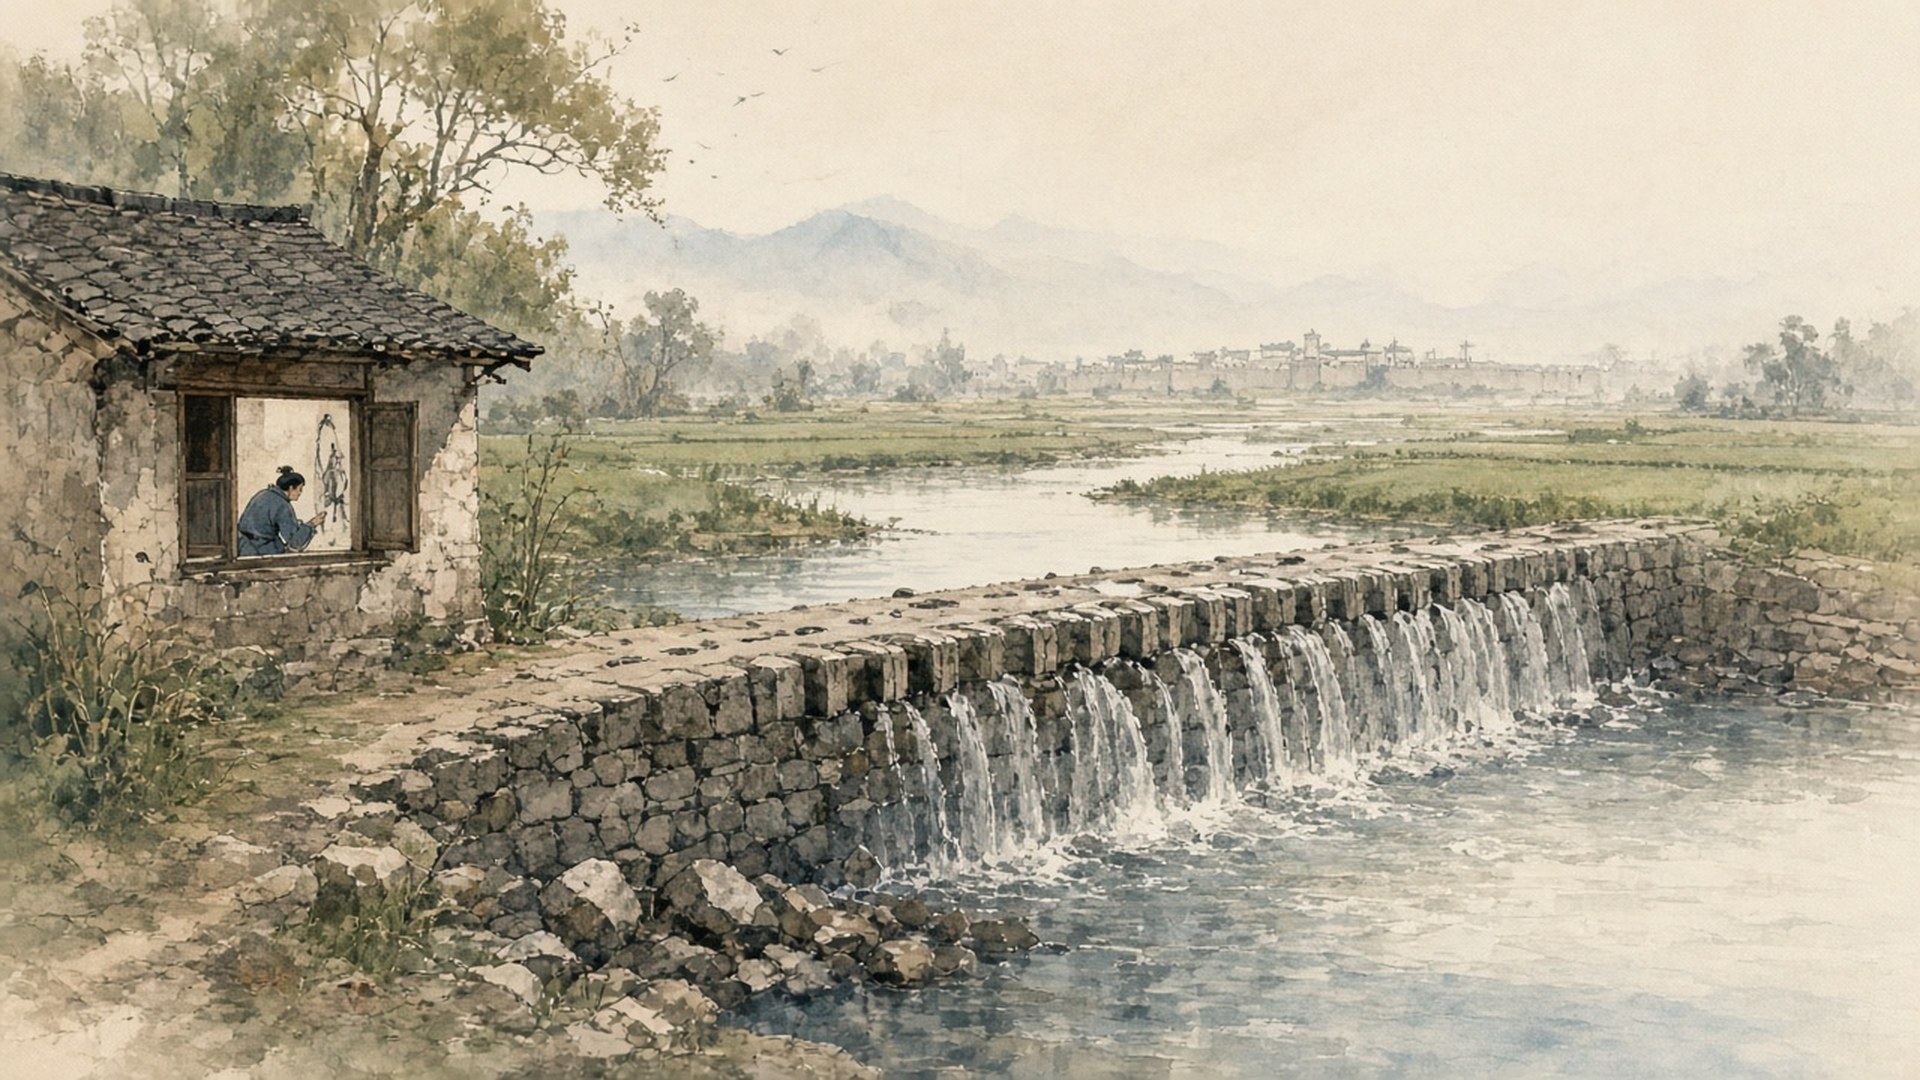
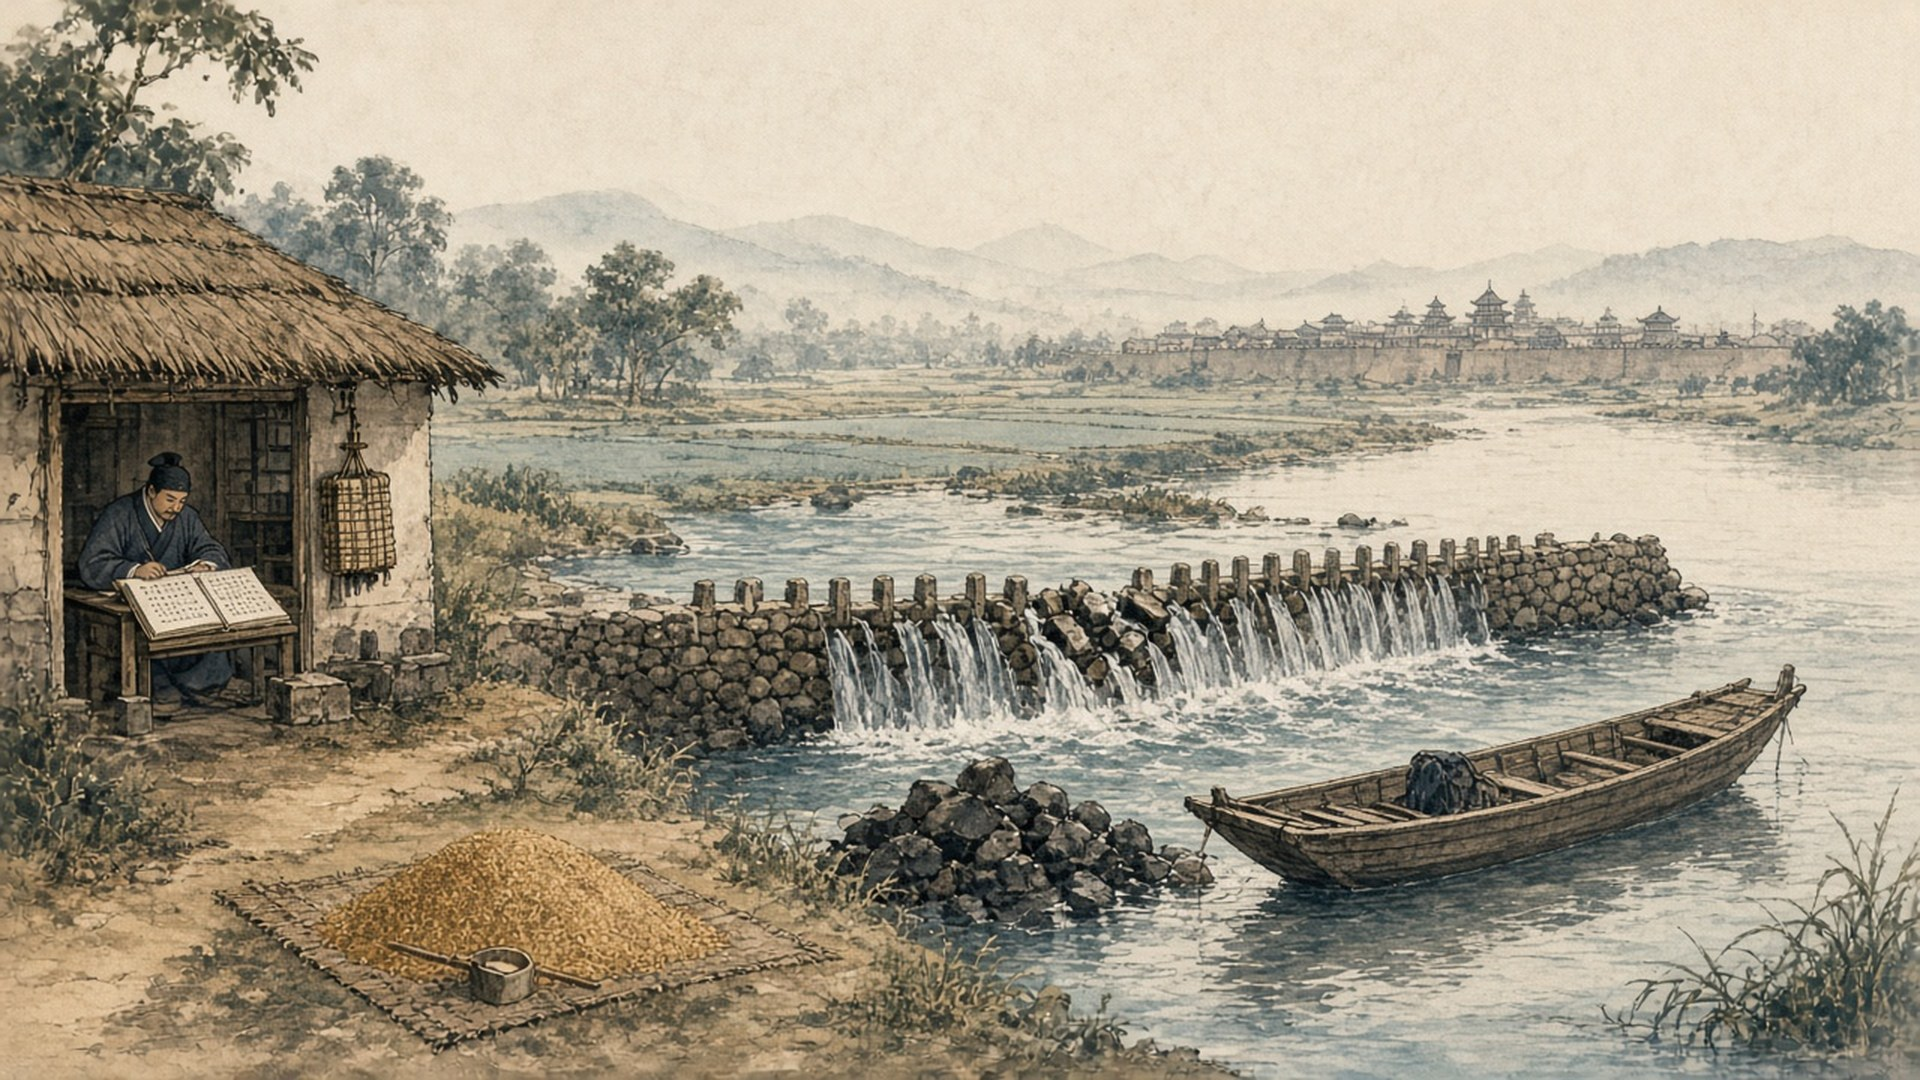
五处重绘底图换上，热区按新画面重对
木兰陂、南海神庙、广船坞、唐房街、蕃坊石巷换上补齐道具的纸墨底图，热区坐标按画面重对（工席已接线的写入 districts.json，其余只改场景文档热区表）。

diff --git a/docs/scenes/08-xh_mulan-木兰陂.md b/docs/scenes/08-xh_mulan-木兰陂.md
@@ -55,15 +55,15 @@ Mulan Weir, Xinghua, Southern Song, mid-morning. Rice paper, ink line. An old st
 
 | id | 画面上像什么 | 坐标 (x,y) | kind | 短讯形态 | 数据 |
 |---|---|---:|---|---|---|
-| `xh_mulan_share` | 陂司门口的份册。 | (0.08, 0.56) | place | 确认「入水利」。 | `invest`。 |
-| `xh_mulan_repair` | 堰中段松了的一排石。 | (0.52, 0.54) | place | 确认「补堰　150钱」。一次。 | `favour`，乡情、名声。 |
-| `xh_mulan_weir` | 堰脚另一处松石。 | (0.30, 0.80) | place | 确认「修陂石　120钱」。一次，flag `xh_mulan_weir`。 | `favour`。 |
-| `xh_mulan_grainbuy` | 陂上分出来的米堆。 | (0.40, 0.58) | goods | 无 flag：还没到那一步。有则确认「陂上分米」。 | `buy`，粮 8，0.9。 |
-| `xh_mulan_siege` | 靠堰的一条可放米的船板。 | (0.62, 0.72) | place | 非围城：城防的账还没开／战况不对。围城：确认「送米进城」。 | `favour`，扣舱米 8，加城防粮。 |
-| `npc_zhengyan_meet` | 小屋里的郑堰。 | (0.16, 0.42) | person | 确认「陂司书手」。一次。 | `favour`。 |
-| `npc_zhengyan_ledger` | 他案上的水租簿。 | (0.22, 0.50) | goods | 未见：还没到那一步。见过：确认「对水租簿」。 | `favour`。 |
-| `npc_zhengyan_invest` | 簿上派工的那一栏。 | (0.28, 0.54) | place | 未对簿：还没到那一步。对过：确认「认修陂工」。 | `invest`。 |
-| `npc_zhengyan_split` | 两份摊开的账。 | (0.24, 0.62) | goods | 未认工：还没到那一步。认过：两路「留作堰工」「按契分」。 | `choice`。 |
+| `xh_mulan_share` | 陂司门口的份册。 | (0.07, 0.54) | place | 确认「入水利」。 | `invest`。 |
+| `xh_mulan_repair` | 堰中段松了的一排石。 | (0.58, 0.48) | place | 确认「补堰　150钱」。一次。 | `favour`，乡情、名声。 |
+| `xh_mulan_weir` | 堰脚另一处松石。 | (0.50, 0.76) | place | 确认「修陂石　120钱」。一次，flag `xh_mulan_weir`。 | `favour`。 |
+| `xh_mulan_grainbuy` | 陂上分出来的米堆。 | (0.22, 0.86) | goods | 无 flag：还没到那一步。有则确认「陂上分米」。 | `buy`，粮 8，0.9。 |
+| `xh_mulan_siege` | 靠堰的一条可放米的船板。 | (0.70, 0.70) | place | 非围城：城防的账还没开／战况不对。围城：确认「送米进城」。 | `favour`，扣舱米 8，加城防粮。 |
+| `npc_zhengyan_meet` | 小屋里的郑堰。 | (0.10, 0.44) | person | 确认「陂司书手」。一次。 | `favour`。 |
+| `npc_zhengyan_ledger` | 他案上的水租簿。 | (0.14, 0.54) | goods | 未见：还没到那一步。见过：确认「对水租簿」。 | `favour`。 |
+| `npc_zhengyan_invest` | 簿上派工的那一栏。 | (0.16, 0.48) | place | 未对簿：还没到那一步。对过：确认「认修陂工」。 | `invest`。 |
+| `npc_zhengyan_split` | 两份摊开的账。 | (0.11, 0.60) | goods | 未认工：还没到那一步。认过：两路「留作堰工」「按契分」。 | `choice`。 |
 
 ## 4. 各热区细致交互
 

diff --git a/docs/scenes/14-gz_fanfang-蕃坊石巷.md b/docs/scenes/14-gz_fanfang-蕃坊石巷.md
@@ -58,14 +58,14 @@ A stone alley in Guangzhou’s foreign quarter, Southern Song, afternoon. Rice p
 
 | id | 画面上像什么 | 坐标 (x,y) | kind | 短讯形态 | 数据 |
 |---|---|---:|---|---|---|
-| `gz_fanfang_interpreter` | 巷口通事。 | (0.20, 0.64) | person | 确认「雇通事　140钱」。 | `hire`，月俸 24。 |
-| `gz_fanfang_ivory` | 墙根象牙。 | (0.10, 0.72) | goods | 确认「收象牙」。通事在则让价。 | `buy`，2，0.94。 |
-| `gz_fanfang_coin` | 巷里过手宋钱的人。 | (0.56, 0.68) | person | 确认「出手宋钱」。官里查得紧。 | `sell`，2，1.12，`attention: 4`。 |
-| `gz_fanfang_rumor` | 通事袖边。 | (0.22, 0.50) | person | 确认「听象牙　12钱」。 | `rumor`，博多象牙 ×1.18。 |
-| `gz_fanfang_intro` | 牙人。 | (0.30, 0.60) | person | 确认「引荐牙人　45钱」。一次。 | `favour`。 |
-| `gz_fanfang_ivory2` | 象牙上的纸签。 | (0.14, 0.62) | goods | 未引荐：还没到那一步。已引荐：确认熟价。 | `buy`，0.9，需 flag。 |
-| `gz_fanfang_pagoda` | 巷底光塔。 | (0.48, 0.26) | place | 旁白一句。 | 新增 `look`。 |
-| `gz_fanfang_well` | 巷中石井。 | (0.42, 0.74) | place | 旁白一句。 | 新增 `look`。 |
+| `gz_fanfang_interpreter` | 巷口通事。 | (0.24, 0.58) | person | 确认「雇通事　140钱」。 | `hire`，月俸 24。 |
+| `gz_fanfang_ivory` | 墙根象牙。 | (0.10, 0.78) | goods | 确认「收象牙」。通事在则让价。 | `buy`，2，0.94。 |
+| `gz_fanfang_coin` | 巷里过手宋钱的人。 | (0.48, 0.48) | person | 确认「出手宋钱」。官里查得紧。 | `sell`，2，1.12，`attention: 4`。 |
+| `gz_fanfang_rumor` | 通事袖边。 | (0.20, 0.48) | person | 确认「听象牙　12钱」。 | `rumor`，博多象牙 ×1.18。 |
+| `gz_fanfang_intro` | 牙人。 | (0.32, 0.62) | person | 确认「引荐牙人　45钱」。一次。 | `favour`。 |
+| `gz_fanfang_ivory2` | 象牙上的纸签。 | (0.13, 0.64) | goods | 未引荐：还没到那一步。已引荐：确认熟价。 | `buy`，0.9，需 flag。 |
+| `gz_fanfang_pagoda` | 巷底光塔。 | (0.42, 0.24) | place | 旁白一句。 | 新增 `look`。 |
+| `gz_fanfang_well` | 巷中石井。 | (0.50, 0.72) | place | 旁白一句。 | 新增 `look`。 |
 
 ## 4. 各热区细致交互
 

diff --git a/docs/scenes/13-gz_yard-广船坞.md b/docs/scenes/13-gz_yard-广船坞.md
@@ -54,14 +54,14 @@ A Guangdong junk yard in Southern Song Guangzhou, mid-morning. Rice paper, ink l
 
 | id | 画面上像什么 | 坐标 (x,y) | kind | 短讯形态 | 数据 |
 |---|---|---:|---|---|---|
-| `gz_yard_smith` | 肋骨间量活的船匠。 | (0.36, 0.52) | person | 确认「雇船匠」。已雇可辞。 | 既有 `hire`，100 钱，月俸 18。 |
-| `gz_yard_iron` | 半掩的铁钉匣。 | (0.44, 0.82) | goods | 确认「收铁钉」。提示官里会记。 | 既有 `buy`，铁器 2，0.95，`attention: 3`。 |
-| `gz_yard_rumor` | 坞边歇着的人。 | (0.58, 0.66) | person | 确认「听铁器　14钱」。 | 既有 `rumor`，泉州铁器 ×1.18，45 日。 |
-| `gz_yard_ribs` | 敞着的肋骨。 | (0.54, 0.46) | place | 旁白一句。 | 新增 `look`。 |
-| `gz_yard_caulk` | 捻缝的小火盆。 | (0.30, 0.70) | place | 旁白一句。 | 新增 `look`。 |
-| `gz_yard_tide` | 坞壁上的潮痕。 | (0.64, 0.84) | place | 旁白一句。 | 新增 `look`。 |
-| `gz_yard_lid` | 钉匣的盖本身。 | (0.52, 0.80) | goods | 旁白一句，和收钉分开，避免误触成交。 | 新增 `look`。 |
-| `gz_yard_plan` | 岸上压着的船图。 | (0.14, 0.72) | place | 旁白一句。图上无字。 | 新增 `look`。 |
+| `gz_yard_smith` | 肋骨间量活的船匠。 | (0.46, 0.46) | person | 确认「雇船匠」。已雇可辞。 | 既有 `hire`，100 钱，月俸 18。 |
+| `gz_yard_iron` | 半掩的铁钉匣。 | (0.42, 0.80) | goods | 确认「收铁钉」。提示官里会记。 | 既有 `buy`，铁器 2，0.95，`attention: 3`。 |
+| `gz_yard_rumor` | 坞边歇着的人。 | (0.76, 0.54) | person | 确认「听铁器　14钱」。 | 既有 `rumor`，泉州铁器 ×1.18，45 日。 |
+| `gz_yard_ribs` | 敞着的肋骨。 | (0.54, 0.34) | place | 旁白一句。 | 新增 `look`。 |
+| `gz_yard_caulk` | 捻缝的小火盆。 | (0.22, 0.60) | place | 旁白一句。 | 新增 `look`。 |
+| `gz_yard_tide` | 坞壁上的潮痕。 | (0.68, 0.78) | place | 旁白一句。 | 新增 `look`。 |
+| `gz_yard_lid` | 钉匣的盖本身。 | (0.36, 0.84) | goods | 旁白一句，和收钉分开，避免误触成交。 | 新增 `look`。 |
+| `gz_yard_plan` | 岸上压着的船图。 | (0.16, 0.74) | place | 旁白一句。图上无字。 | 新增 `look`。 |
 
 ## 4. 各热区细致交互
 

diff --git a/docs/scenes/11-gz_nanhai-南海神庙.md b/docs/scenes/11-gz_nanhai-南海神庙.md
@@ -57,12 +57,12 @@ Front court of Nanhai Temple, Guangzhou, Southern Song, early morning. Rice pape
 
 | id | 画面上像什么 | 坐标 (x,y) | kind | 短讯形态 | 数据 |
 |---|---|---:|---|---|---|
-| `gz_nanhai_rite` | 殿前香案。 | (0.26, 0.76) | place | 确认「祭海　30钱」。每月一次。 | `favour`。 |
-| `gz_nanhai_before` | 廊下等着的牙人。 | (0.40, 0.58) | person | 两路：「自己许」「请牙人　20钱」。每年一次。 | `choice`。 |
-| `gz_nanhai_rumor` | 祝伯可问话的位置。 | (0.28, 0.46) | person | 确认「听香价　12钱」。 | `rumor`，泉州香药 ×1.18，40 日。 |
-| `npc_zhubo_ask` | 香案上未封口的札。 | (0.34, 0.52) | goods | 确认「香火札」。一次。 | `favour`，flag `npc_zhubo_asked`。 |
-| `npc_liang_tide` | 压在案下的断缆。 | (0.30, 0.64) | goods | 未听沉船：还没到那一步。听过：确认「等潮」。 | `favour`，需 `npc_liang_met`。 |
-| `gz_nanhai_birth` | 庙前临时的香药摊。 | (0.14, 0.82) | goods | 非二月：还不是这个月的事。二月：确认「神诞香市」。 | `sell`，香药 3，1.10，每年一次。 |
+| `gz_nanhai_rite` | 殿前香案。 | (0.30, 0.56) | place | 确认「祭海　30钱」。每月一次。 | `favour`。 |
+| `gz_nanhai_before` | 廊下等着的牙人。 | (0.58, 0.50) | person | 两路：「自己许」「请牙人　20钱」。每年一次。 | `choice`。 |
+| `gz_nanhai_rumor` | 祝伯可问话的位置。 | (0.40, 0.46) | person | 确认「听香价　12钱」。 | `rumor`，泉州香药 ×1.18，40 日。 |
+| `npc_zhubo_ask` | 香案上未封口的札。 | (0.58, 0.68) | goods | 确认「香火札」。一次。 | `favour`，flag `npc_zhubo_asked`。 |
+| `npc_liang_tide` | 压在案下的断缆。 | (0.52, 0.90) | goods | 未听沉船：还没到那一步。听过：确认「等潮」。 | `favour`，需 `npc_liang_met`。 |
+| `gz_nanhai_birth` | 庙前临时的香药摊。 | (0.12, 0.78) | goods | 非二月：还不是这个月的事。二月：确认「神诞香市」。 | `sell`，香药 3，1.10，每年一次。 |
 
 ## 4. 各热区细致交互
 

diff --git a/docs/scenes/15-hk_tobo-唐房街.md b/docs/scenes/15-hk_tobo-唐房街.md
@@ -59,13 +59,13 @@ To-bo street in Hakata, Kamakura period, noon as sea mist lifts. Rice paper, ink
 
 | id | 画面上像什么 | 坐标 (x,y) | kind | 短讯形态 | 数据 |
 |---|---|---:|---|---|---|
-| `hk_tobo_silk` | 柜上的绢。 | (0.22, 0.64) | goods | 确认「出手绢帛」。 | `sell`，3，1.06。 |
-| `hk_tobo_feast` | 铺后可坐的席。 | (0.16, 0.48) | place | 确认「请纲首　40钱」。每月一次。 | `favour`。 |
-| `hk_tobo_rumor` | 席上可问的纲首。 | (0.38, 0.54) | person | 确认「问回船　15钱」。 | `rumor`，庆元倭铜 ×1.2，40 日。 |
-| `hk_tobo_intro` | 愿意领路的那位纲首。 | (0.44, 0.58) | person | 确认「引荐纲首　45钱」。一次。 | `favour`。 |
+| `hk_tobo_silk` | 柜上的绢。 | (0.12, 0.72) | goods | 确认「出手绢帛」。 | `sell`，3，1.06。 |
+| `hk_tobo_feast` | 铺后可坐的席。 | (0.22, 0.52) | place | 确认「请纲首　40钱」。每月一次。 | `favour`。 |
+| `hk_tobo_rumor` | 席上可问的纲首。 | (0.30, 0.38) | person | 确认「问回船　15钱」。 | `rumor`，庆元倭铜 ×1.2，40 日。 |
+| `hk_tobo_intro` | 愿意领路的那位纲首。 | (0.16, 0.44) | person | 确认「引荐纲首　45钱」。一次。 | `favour`。 |
 | `hk_tobo_silk2` | 验过的那一叠绢。 | (0.28, 0.72) | goods | 未引荐：还没到那一步。已引荐：确认熟价。 | `sell`，3，1.12，需 flag。 |
-| `npc_cairong_meet` | 柜上两本货簿。 | (0.12, 0.78) | goods | 确认「两本货簿」。一次。 | `favour`。 |
-| `hk_tobo_suichu` | 腊月的门笺和炭盆。 | (0.20, 0.32) | place | 非十二月：还不是这个月的事。是则确认「岁除守夜　20钱」。 | `favour`，每年一次。 |
+| `npc_cairong_meet` | 柜上两本货簿。 | (0.38, 0.76) | goods | 确认「两本货簿」。一次。 | `favour`。 |
+| `hk_tobo_suichu` | 腊月的门笺和炭盆。 | (0.40, 0.46) | place | 非十二月：还不是这个月的事。是则确认「岁除守夜　20钱」。 | `favour`，每年一次。 |
 
 ## 4. 各热区细致交互
 
